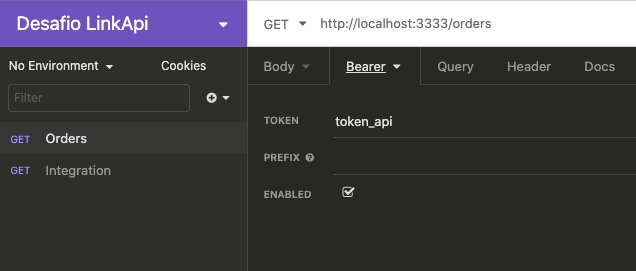
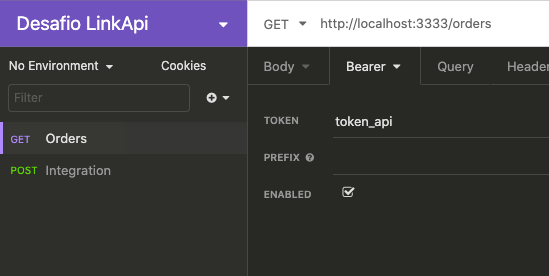
atualização rota de integração para post

diff --git a/src/routes.ts b/src/routes.ts
@@ -10,7 +10,7 @@ routes.get("/", (req, res) => res.status(404).json({ message: 'route not used' }
 
 // Route that integrates Pipedrive and Bling 
 // and also saves data in the database
-routes.get('/integration', pipedriveController.index)
+routes.post('/integration', pipedriveController.index)
 // Route that fetches all data registered in the database
 routes.get('/orders', pipedriveController.show)
 
